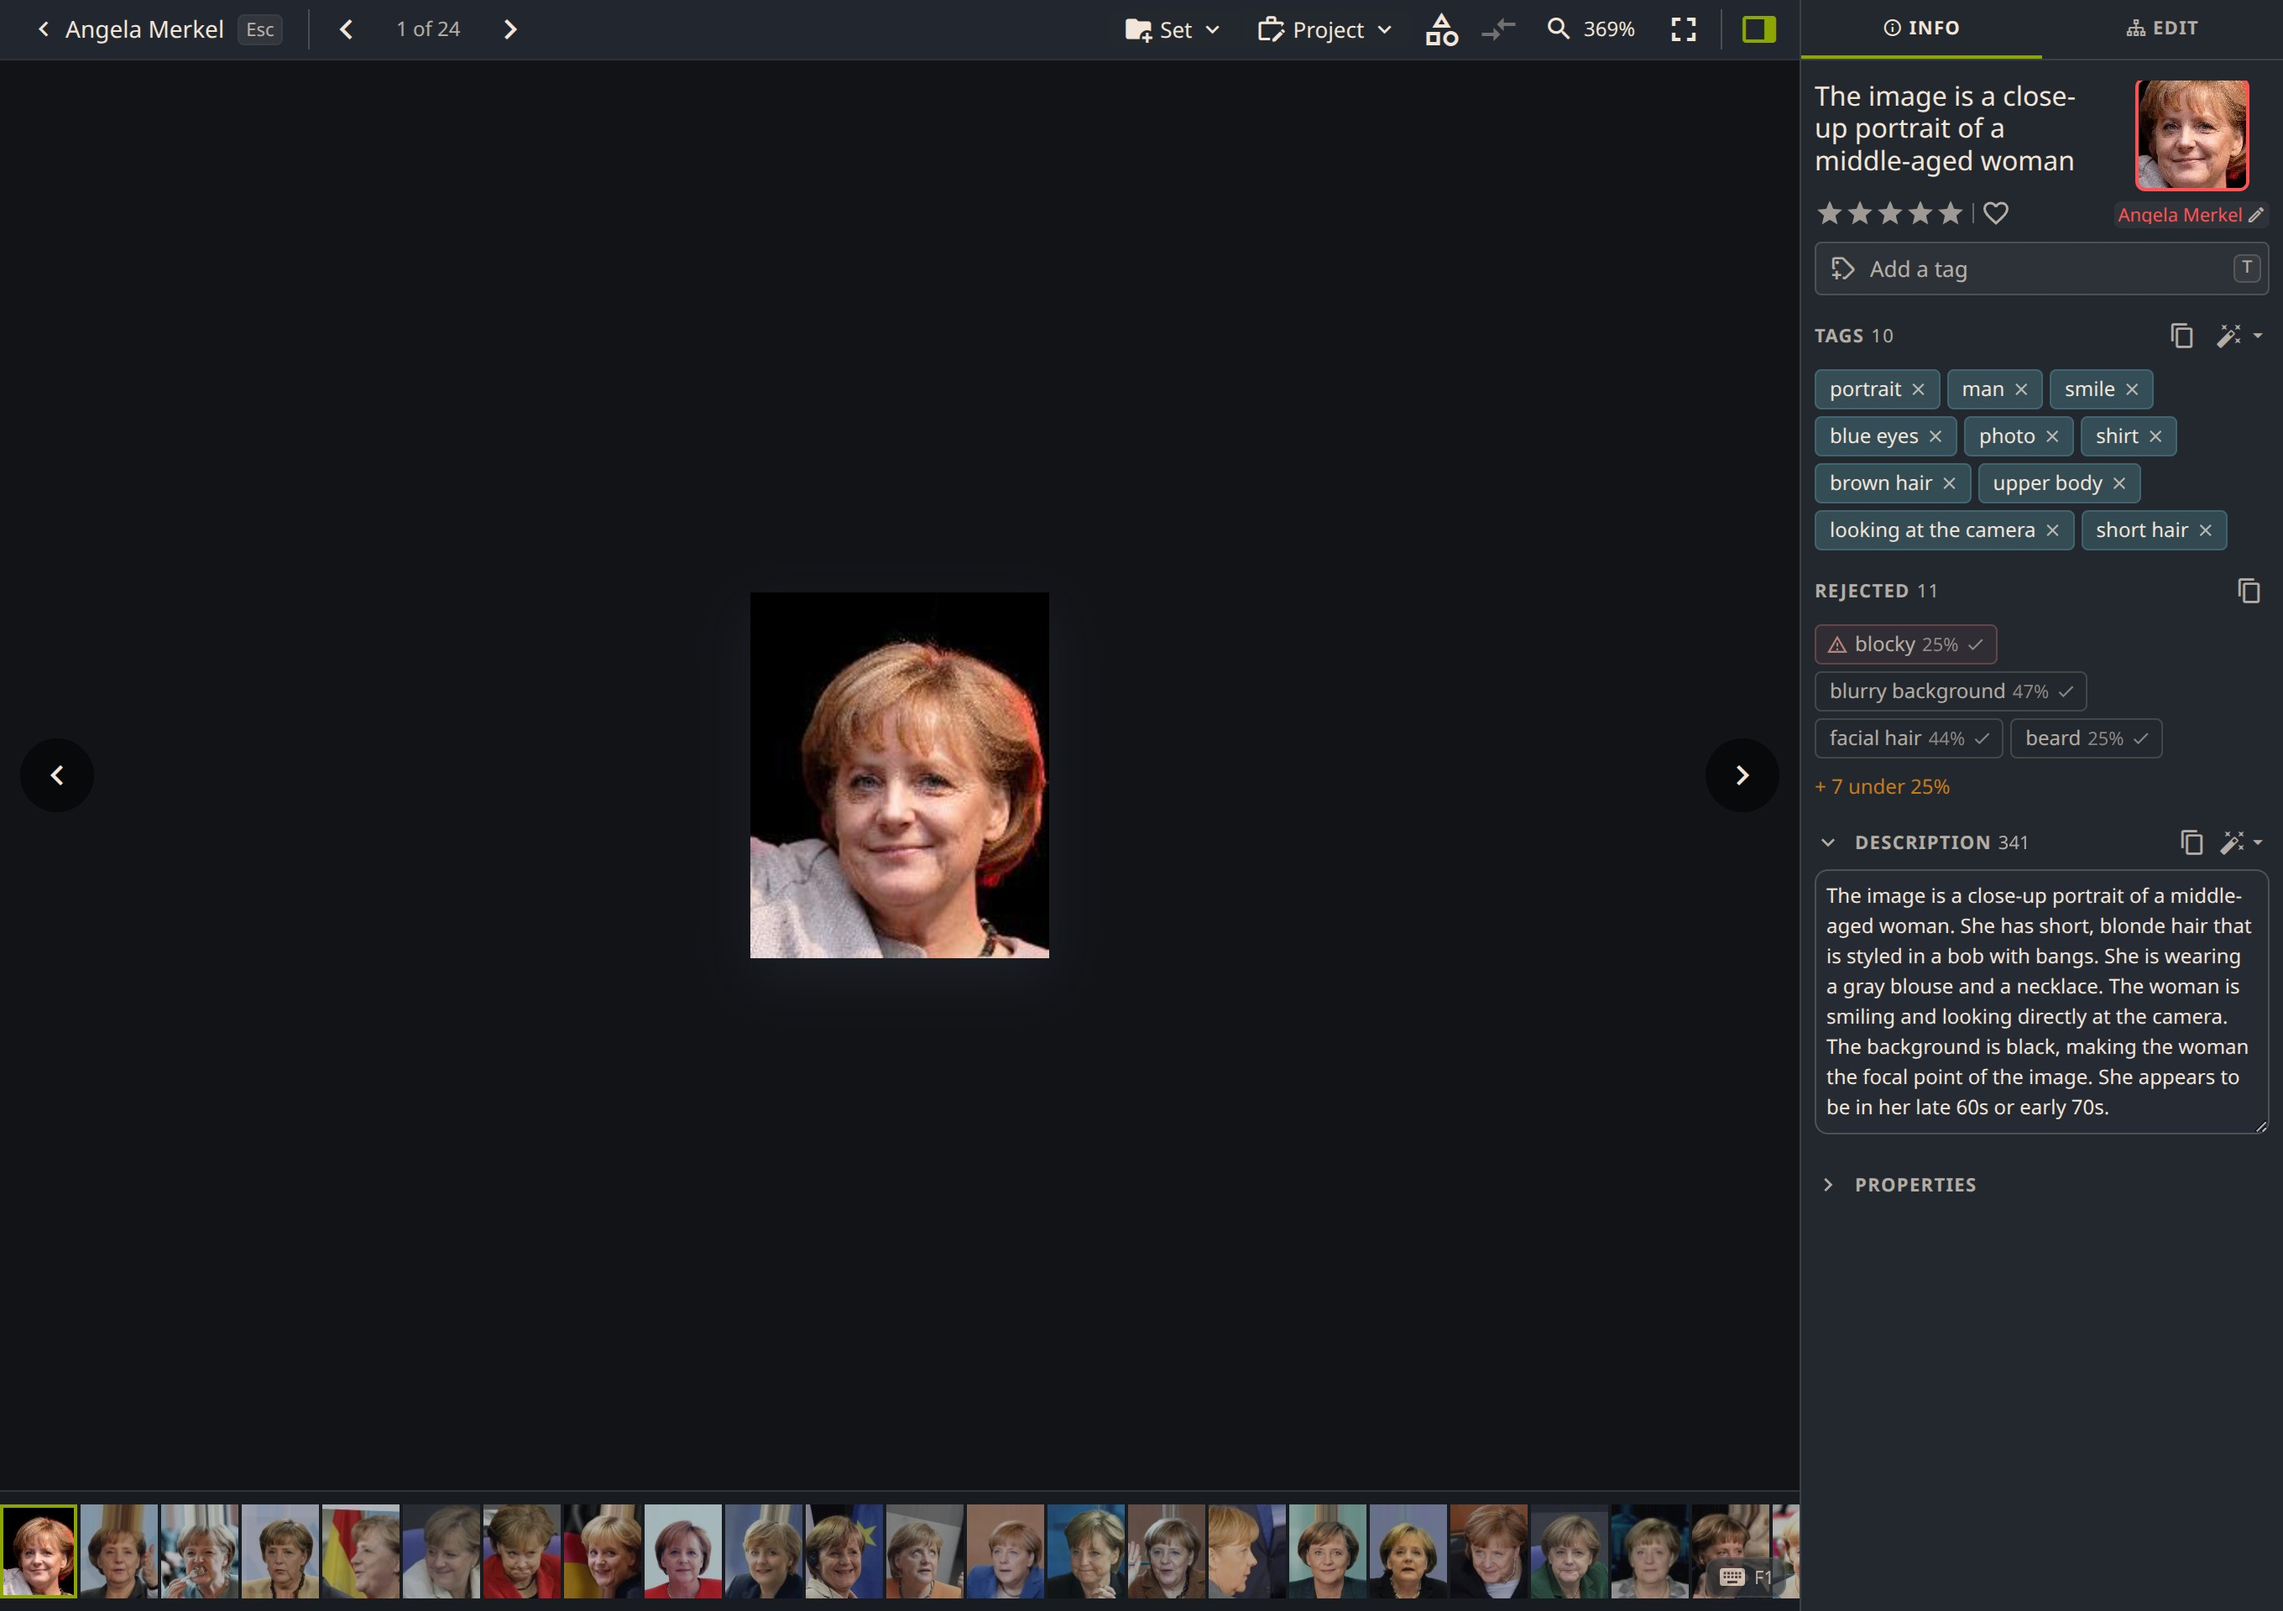
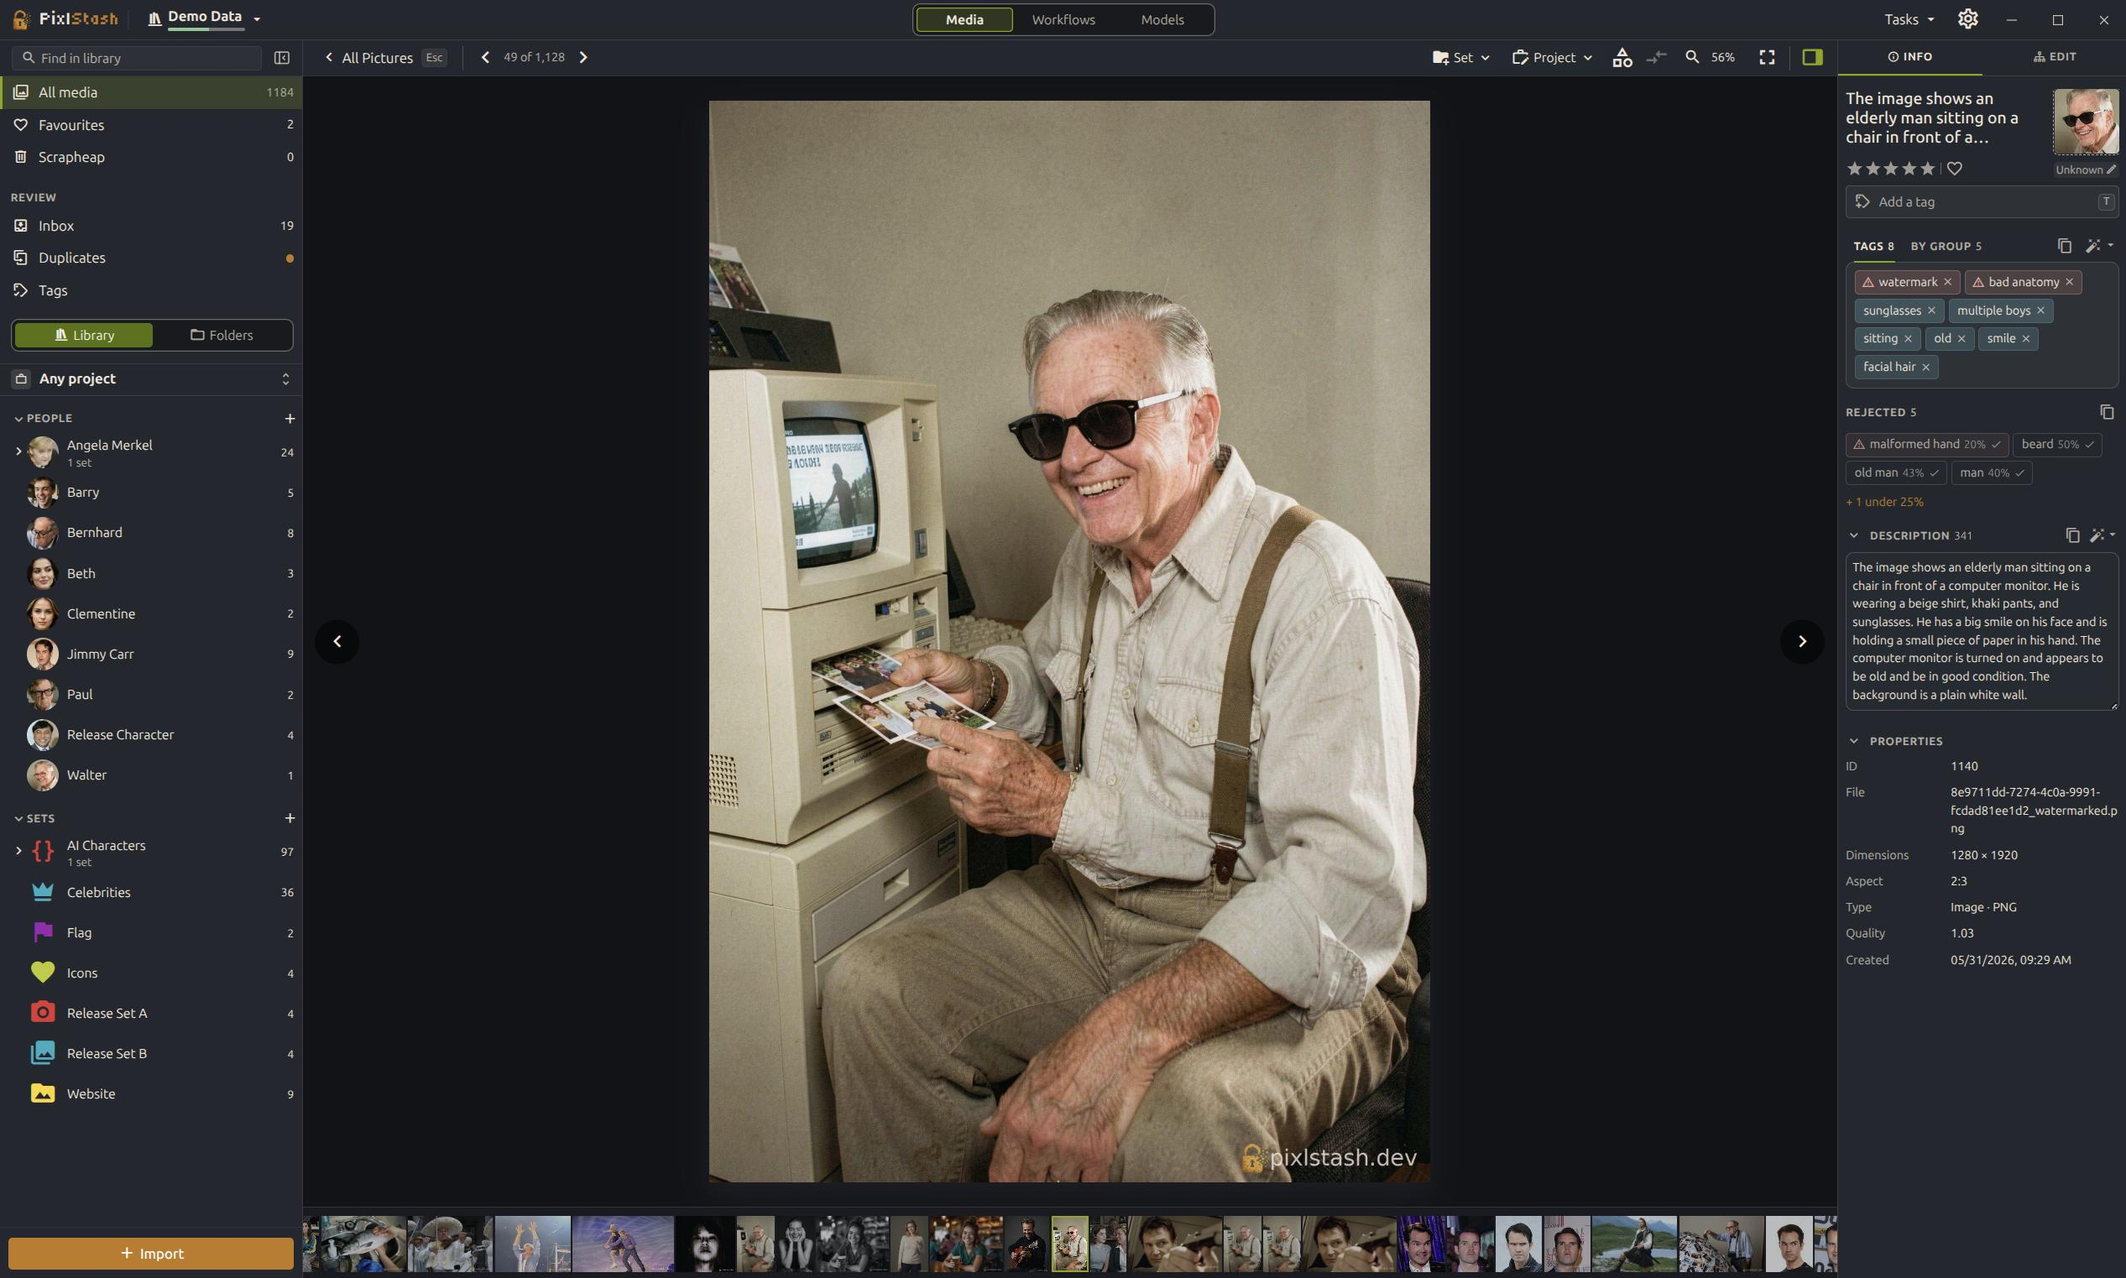
Update a screenshot and simplify website language

diff --git a/website/introduction.html b/website/introduction.html
@@ -158,7 +158,7 @@
           <div class="feature">
             <div class="feature-text">
               <span class="feature-number">01. Import</span>
-              <h2>Drag, drop, done</h2>
+              <h2>Easy import</h2>
               <p>
                 Import single images, whole folders, ZIP or TAR archives in one
                 go. PixlStash deduplicates and starts tagging your library the
@@ -180,7 +180,7 @@
           <div class="feature feature--reverse">
             <div class="feature-text">
               <span class="feature-number">02. People</span>
-              <h2>Put names to faces</h2>
+              <h2>Face detection</h2>
               <p>
                 PixlStash detects faces for every picture. Assign pictures to a
                 person and PixlStash will build up a profile for that person
@@ -203,7 +203,7 @@
           <div class="feature">
             <div class="feature-text">
               <span class="feature-number">03. Tagging</span>
-              <h2>Bulk-tag in seconds</h2>
+              <h2>Bulk-tagging</h2>
               <p>
                 The PixlStash tagger runs automatically. Review AI predictions,
                 accept or reject with a click, and apply new tags across any
@@ -225,7 +225,7 @@
           <div class="feature feature--reverse">
             <div class="feature-text">
               <span class="feature-number">04. Smart Score</span>
-              <h2>Get rid of the rubbish</h2>
+              <h2>Automatic quality scoring</h2>
               <p>
                 A composite quality score weighs aesthetics and anomaly tags to
                 help you clear the worst images. Filter and sort by smart score
@@ -269,7 +269,7 @@
           <div class="feature feature--reverse">
             <div class="feature-text">
               <span class="feature-number">06. Export</span>
-              <h2>Dataset-ready in a few clicks</h2>
+              <h2>Easily create and export datasets</h2>
               <p>
                 Export the current view as a ZIP of images paired with tag or
                 description captions. Choose full images or face crops, pick
